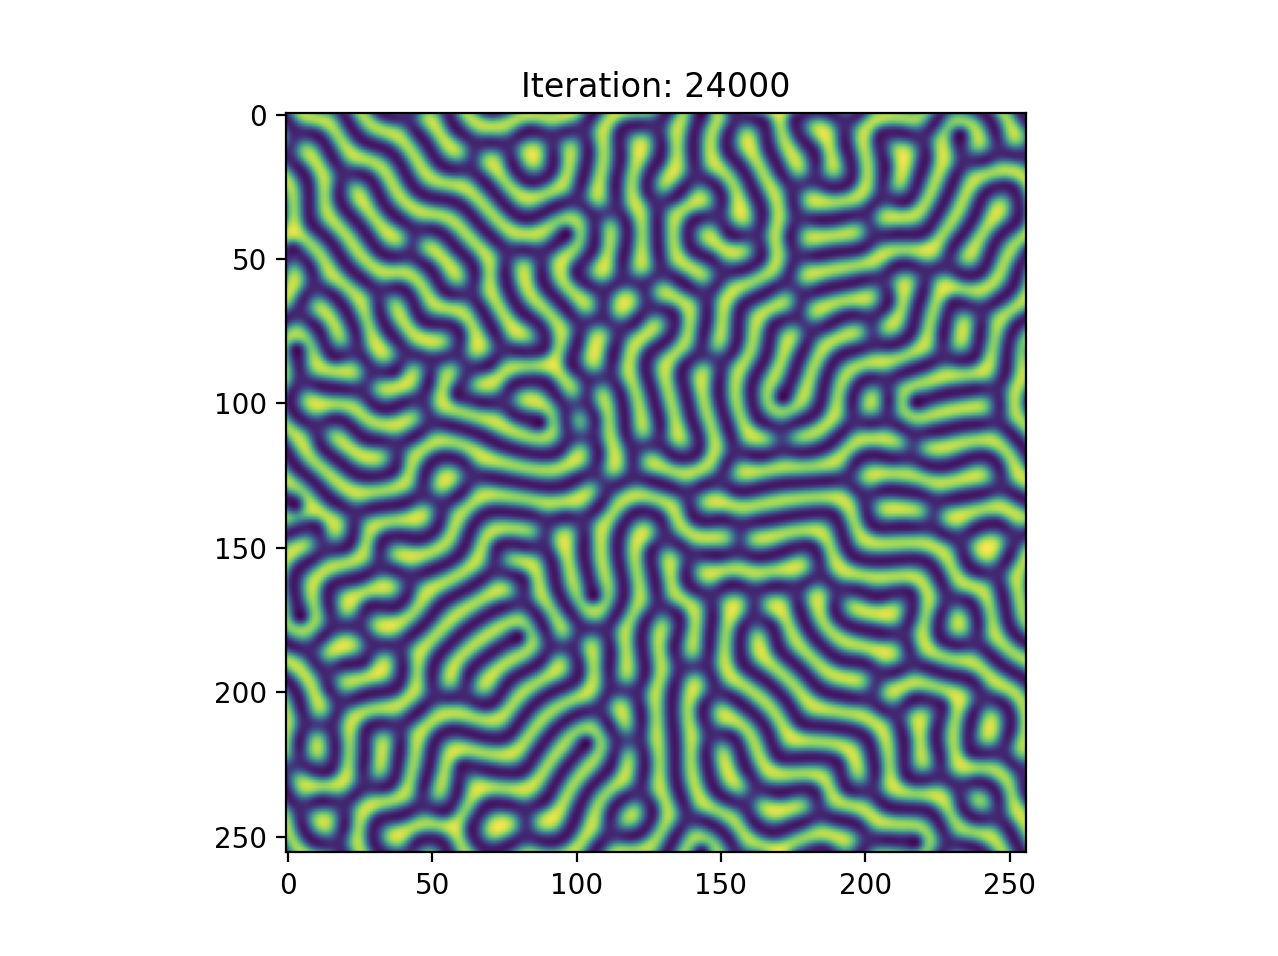
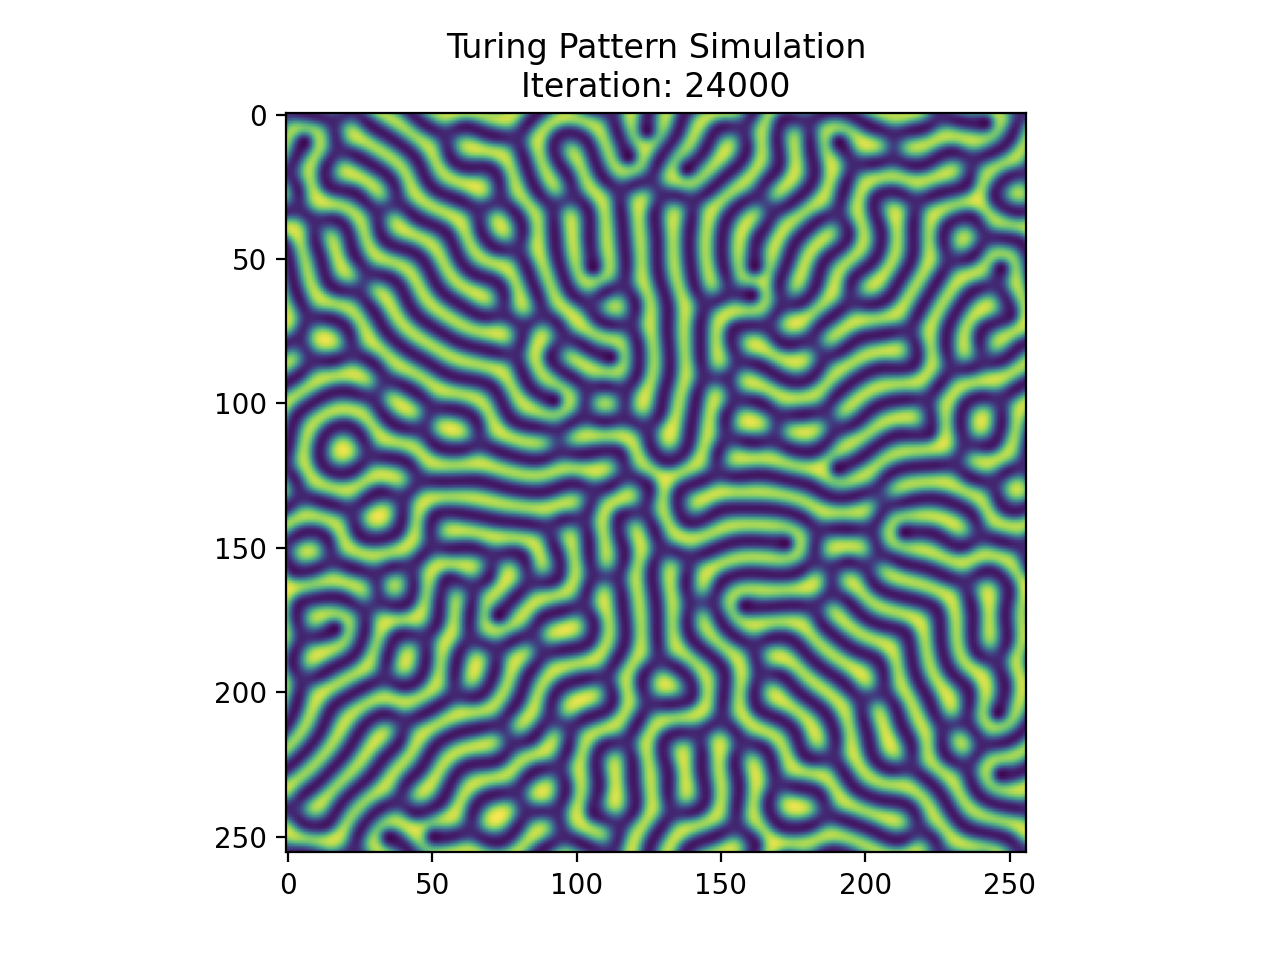
Editted Turing Pattern Simulation

diff --git a/Turing Pattern Simulation/turing_pattern.py b/Turing Pattern Simulation/turing_pattern.py
@@ -28,7 +28,7 @@ for n in range(iterations):
     # Update plot every 1000 iterations
     if n % 1000 == 0:
         plt.imshow(u)
-        plt.title(f"Iteration: {n}")
+        plt.title(f"Turing Pattern Simulation\nIteration: {n}")
         plt.pause(0.01)
 
 plt.show()
